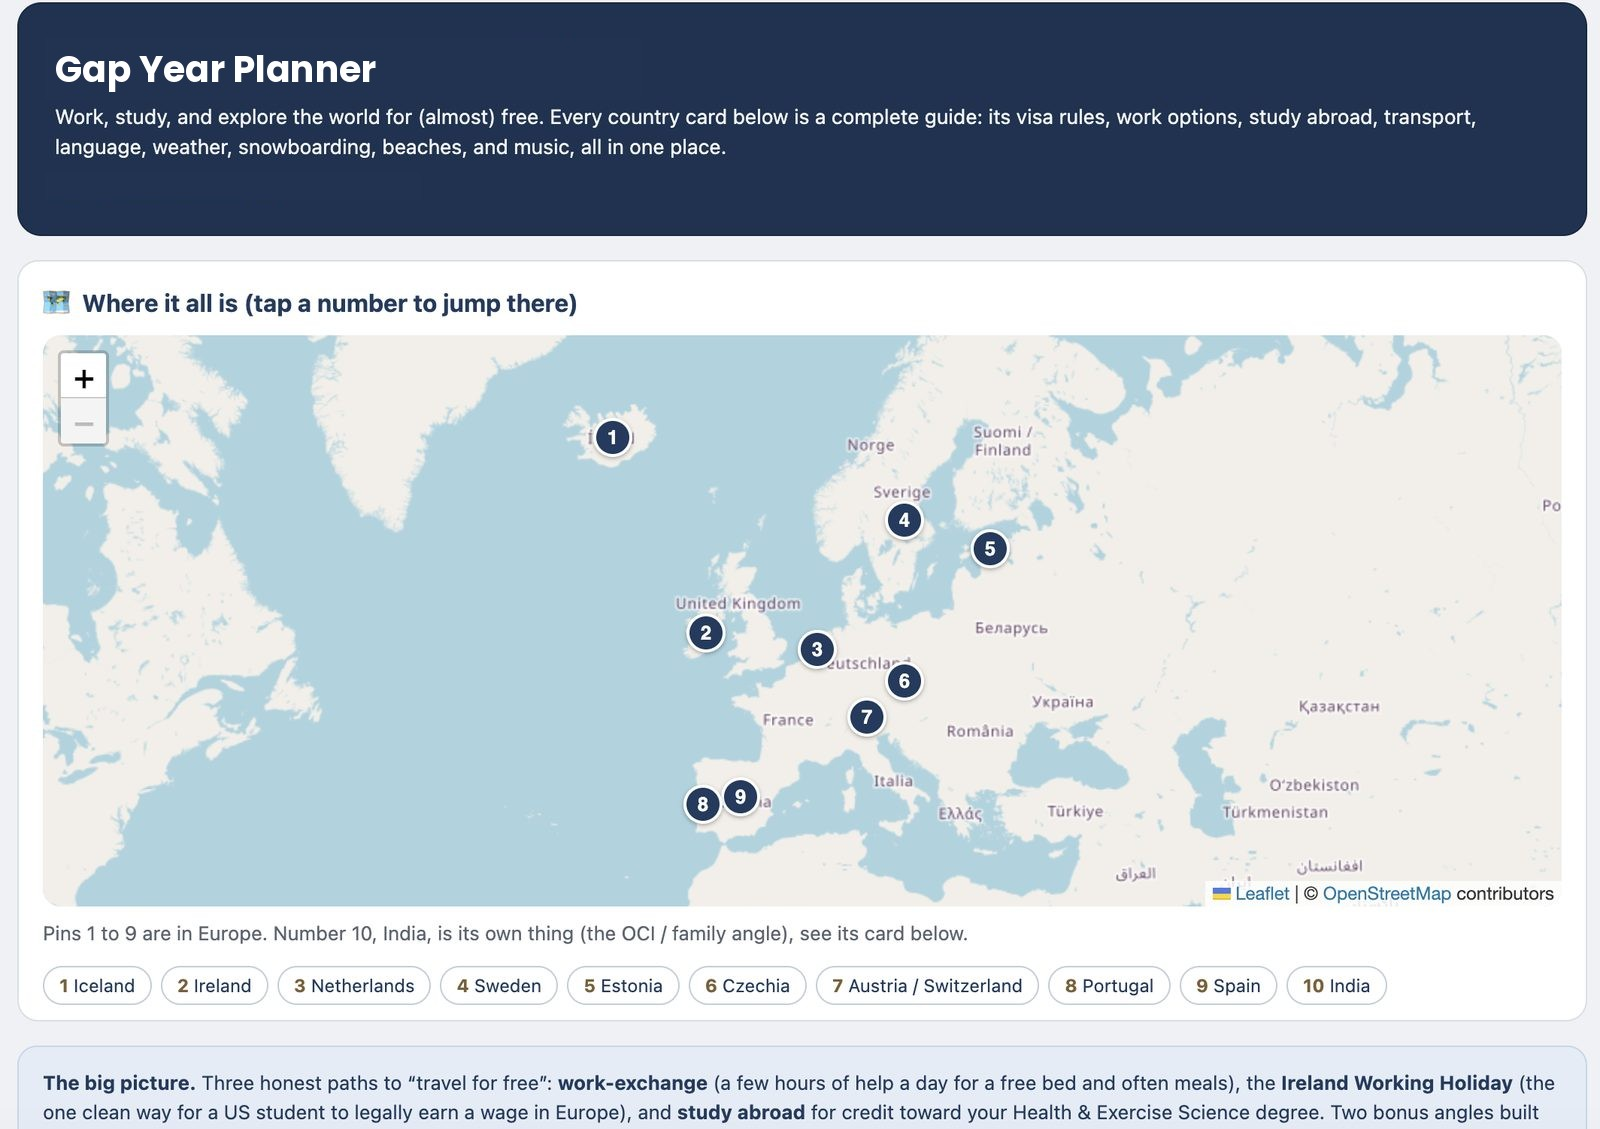
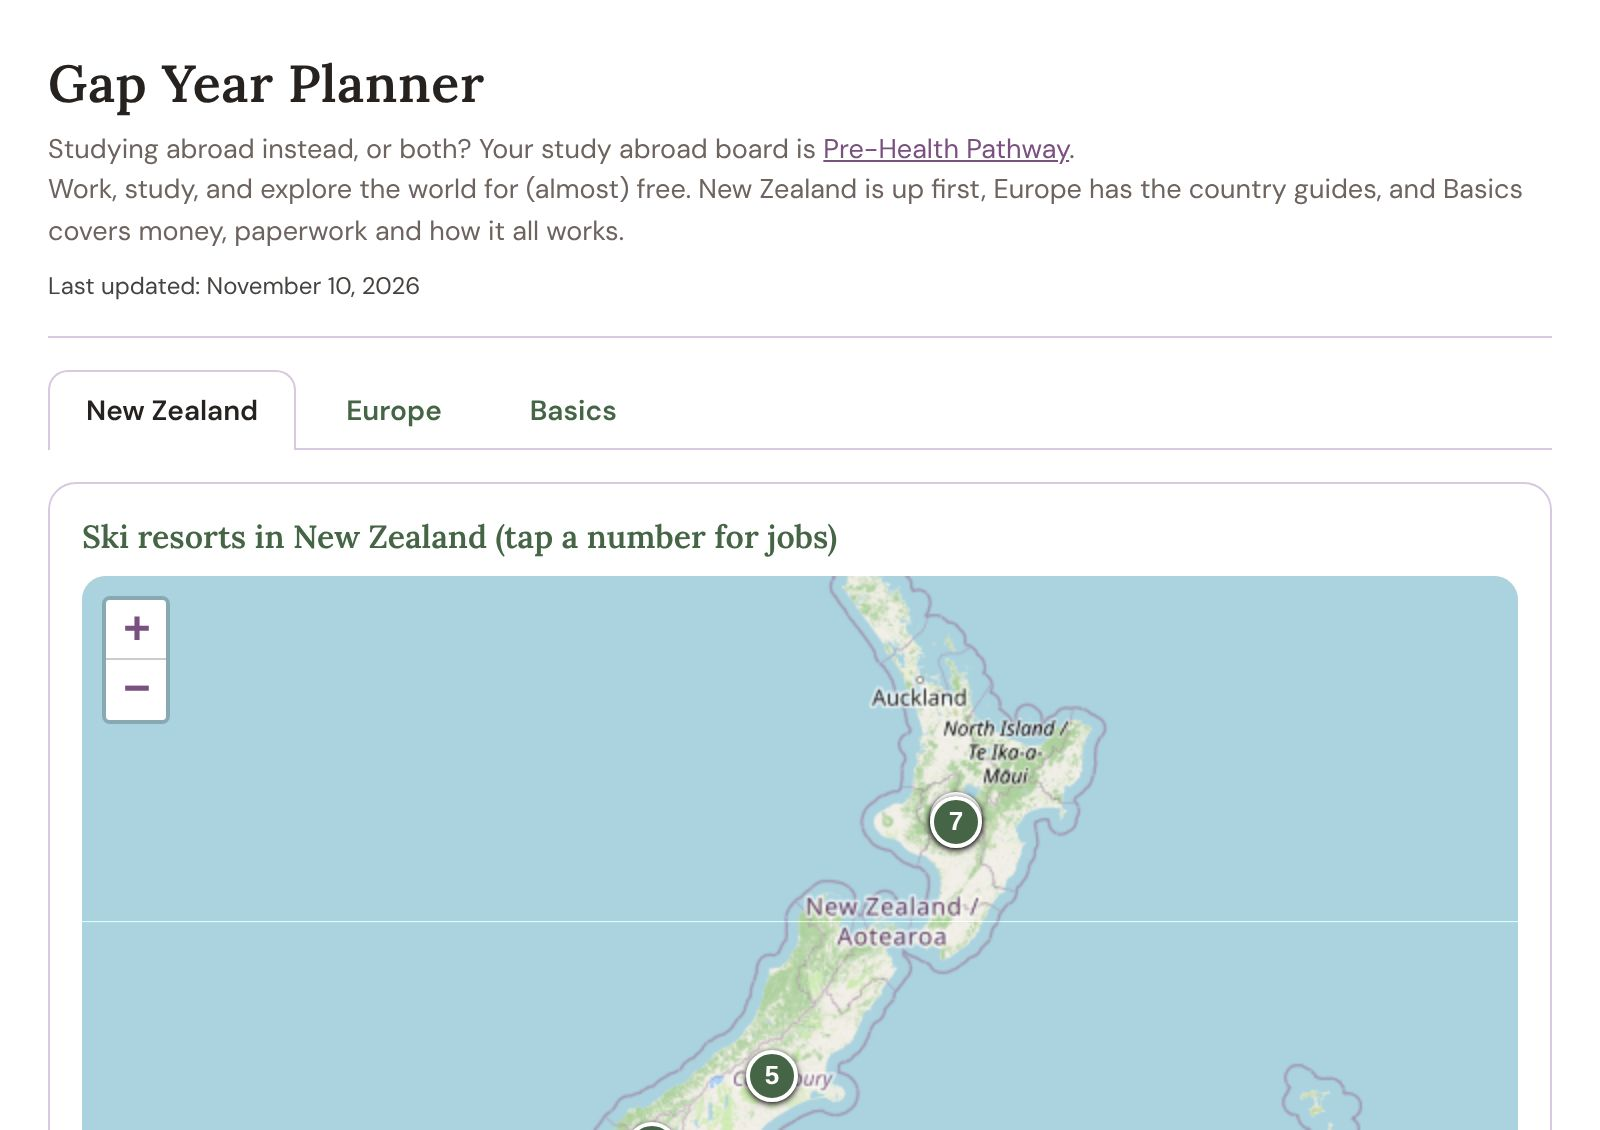
fixing the agents

diff --git a/gap-year/index.html b/gap-year/index.html
@@ -156,18 +156,18 @@ a:link,a:visited{color:#7a5080}
 
   <div class="hero">
     <h1>Gap Year Planner</h1>
-    <p class="sub">Studying abroad instead, or both? Your study abroad board is <a href="/pre-health/">Pre-Health Pathway</a>.</p>
-    <p>Work, study, and explore the world for (almost) free. Start with Basics, then open New Zealand or Europe for the details on each place.</p>
+    <p class="sub">Pre-health jobs, shadowing and scholarships at home are on <a href="/pre-health/">Pre-Health Pathway</a>.</p>
+    <p>Work, study, and explore the world for (almost) free. New Zealand is up first, Europe has the country guides, and Basics covers money, paperwork and how it all works.</p>
     <div class="upd">Last updated: November 10, 2026</div>
   </div>
 
   <div class="tabs" role="tablist" aria-label="Regions">
-    <button role="tab" id="tab-basics" aria-controls="panel-basics" aria-selected="true">Basics</button>
-    <button role="tab" id="tab-nz" aria-controls="panel-nz" aria-selected="false" tabindex="-1">New Zealand</button>
+    <button role="tab" id="tab-nz" aria-controls="panel-nz" aria-selected="true">New Zealand</button>
     <button role="tab" id="tab-eu" aria-controls="panel-eu" aria-selected="false" tabindex="-1">Europe</button>
+    <button role="tab" id="tab-basics" aria-controls="panel-basics" aria-selected="false" tabindex="-1">Basics</button>
   </div>
 
-  <div class="tabpanel" role="tabpanel" id="panel-basics" aria-labelledby="tab-basics">
+  <div class="tabpanel" role="tabpanel" id="panel-basics" aria-labelledby="tab-basics" hidden>
   <h2>How to live in another country</h2>
   <div class="callout c-blue">Three honest ways to live abroad on a small budget: a <b>working holiday visa</b> (a real job and a real wage, like New Zealand or Ireland), <b>work-exchange</b> (a few hours of help a day for a free bed and often meals), and <b>study abroad</b> for credit toward your degree. This tab covers what applies anywhere. The New Zealand and Europe tabs cover each place.</div>
 
@@ -254,7 +254,7 @@ a:link,a:visited{color:#7a5080}
 
   </div>
 
-  <div class="tabpanel" role="tabpanel" id="panel-nz" aria-labelledby="tab-nz" hidden>
+  <div class="tabpanel" role="tabpanel" id="panel-nz" aria-labelledby="tab-nz">
   <div class="mapcard">
     <h2>Ski resorts in New Zealand (tap a number for jobs)</h2>
     <div id="nzMap" role="img" aria-label="Map of New Zealand with numbered pins on the ski resorts"></div>
@@ -688,13 +688,13 @@ function initEuMap(){
   window._euMap=map;
 }
 (function(){
-  var tabs=[document.getElementById("tab-basics"),document.getElementById("tab-nz"),document.getElementById("tab-eu")];
-  var panels=[document.getElementById("panel-basics"),document.getElementById("panel-nz"),document.getElementById("panel-eu")];
+  var tabs=[document.getElementById("tab-nz"),document.getElementById("tab-eu"),document.getElementById("tab-basics")];
+  var panels=[document.getElementById("panel-nz"),document.getElementById("panel-eu"),document.getElementById("panel-basics")];
   function show(i,focus){
     tabs.forEach(function(t,j){t.setAttribute("aria-selected",j===i?"true":"false");t.tabIndex=j===i?0:-1;panels[j].hidden=j!==i;});
     if(focus)tabs[i].focus();
-    if(i===1){initNzMap();setTimeout(function(){if(window._nzMap){window._nzMap.invalidateSize();window._nzMap.fitBounds(window._nzPts,{padding:[40,40]});}},0);}
-    if(i===2){initEuMap();if(window._euMap)window._euMap.invalidateSize();}
+    if(i===0){initNzMap();setTimeout(function(){if(window._nzMap){window._nzMap.invalidateSize();window._nzMap.fitBounds(window._nzPts,{padding:[40,40]});}},0);}
+    if(i===1){initEuMap();if(window._euMap)window._euMap.invalidateSize();}
   }
   tabs.forEach(function(t,i){
     t.addEventListener("click",function(){show(i);});
@@ -707,7 +707,8 @@ function initEuMap(){
     if(!t)return;
     for(var k=0;k<panels.length;k++){if(panels[k].contains(t)&&panels[k].hidden){show(k);setTimeout(function(){t.scrollIntoView();},50);break;}}
   }
-  window.addEventListener("hashchange",checkHash);checkHash();
+  window.addEventListener("hashchange",checkHash);
+  if(location.hash)checkHash();else window.addEventListener("load",function(){show(0);});
 })();
 
 // New Zealand ski resort map

diff --git a/index.html b/index.html
@@ -58,7 +58,7 @@
     <a href="/wayfinder/overview.html" data-cat="agents"><span class="feat-thumb"><img src="/wayfinder/wayfinder_cover.jpg" alt=""></span><span class="feat-body"><span class="feat-t">Road-Trip Planner</span><span class="feat-s">Wayfinder</span><span class="feat-d">A 15-day road trip with my son, planned with AI in a few hours around three nights at Yosemite. Its campground finder got us beach sites at Lake Tahoe three days before departure.</span></span></a>
     <a href="/cultivate/overview.html" data-cat="agents"><span class="feat-thumb"><img src="/cultivate/cultivate_cover.jpg" alt=""></span><span class="feat-body"><span class="feat-t">Personal Learning Environment</span><span class="feat-s">Cultivate</span><span class="feat-d">A connectivist hub for professional development and a curated news feed. The first AI build here, and the experiment that started the rest.</span></span></a>
     <a href="/soar/overview.html" data-cat="agents"><span class="feat-thumb"><img src="/soar/soar_cover.jpg" alt=""></span><span class="feat-body"><span class="feat-t">First-Year Engineering Agent</span><span class="feat-s">Soar</span><span class="feat-d">A scheduled dashboard for a first-year engineering student: aerospace news and clubs, scholarships, internships, campus jobs and housing.</span></span></a>
-    <a href="/gap-year/overview.html" data-cat="agents"><span class="feat-thumb"><img src="/gap-year/gap-year_cover.jpg" alt=""></span><span class="feat-body"><span class="feat-t">Gap Year Planner Agent</span><span class="feat-s">Gap Year Planner</span><span class="feat-d">Country guides for living, working and studying abroad on a budget, with visa rules, seasonal resort jobs and a savings plan, kept current by a scheduled agent.</span></span></a>
+    <a href="/gap-year/overview.html" data-cat="agents"><span class="feat-thumb"><img src="/gap-year/gap-year_cover.jpg?v=20261113b" alt=""></span><span class="feat-body"><span class="feat-t">Gap Year Planner Agent</span><span class="feat-s">Gap Year Planner</span><span class="feat-d">Country guides for living, working and studying abroad on a budget, with visa rules, seasonal resort jobs and a savings plan, kept current by a scheduled agent.</span></span></a>
     <a href="/flow/overview.html" data-cat="agents"><span class="feat-thumb"><img src="/flow/flow_cover.jpg" alt=""></span><span class="feat-body"><span class="feat-t">Career Exploration Agent</span><span class="feat-s">Find Your Flow</span><span class="feat-d">One realistic career at a time, with verified pay, an affordable Colorado path and one real open job. Built to take the overwhelm out of choosing.</span></span></a>
     <a href="/pre-health/overview.html" data-cat="agents"><span class="feat-thumb"><img src="/pre-health/pre-health_cover.jpg?v=20261113b" alt=""></span><span class="feat-body"><span class="feat-t">Pre-Health Pathway Agent</span><span class="feat-s">Pre-Health Pathway</span><span class="feat-d">A scheduled board of deadlines, paid patient care, shadowing, scholarships and study abroad, so the next step on a long path is always clear.</span></span></a>
     <a href="/focus/overview.html" data-cat="agents"><span class="feat-thumb"><img src="/focus/focus_cover.jpg" alt=""></span><span class="feat-body"><span class="feat-t">Local Job Board Agent</span><span class="feat-s">Focus</span><span class="feat-d">A scheduled board of real, open jobs near home for a working photographer, each verified on the employer&rsquo;s own site and held to a firm pay floor.</span></span></a>

diff --git a/assets/tool.css b/assets/tool.css
@@ -5,3 +5,12 @@
 .hero:has(> .hero-inner),.refresh-bar{max-width:1000px!important;margin-left:auto!important;margin-right:auto!important;box-sizing:border-box}
 img,video,iframe,table{max-width:100%}
 @media(max-width:520px){.wrap,.container,.hero-inner{padding-left:1rem!important;padding-right:1rem!important}}
+
+/* Tool hero banners: ONE treatment on every tool (13 Nov 2026).
+   Contained to the content width (not edge to edge), rounded, same top spacing. */
+.ph-hero,.hero:has(> .hero-shade),.hero:has(> .hero-inner),.refresh-bar{width:calc(100% - 3rem)!important;max-width:calc(1000px - 3rem)!important;margin-left:auto!important;margin-right:auto!important;box-sizing:border-box}
+.ph-hero,.hero:has(> .hero-shade),.hero:has(> .hero-inner){margin-top:20px!important;border-radius:12px;overflow:hidden}
+.refresh-bar{margin-top:16px!important;border-radius:8px}
+@media(max-width:520px){.ph-hero,.hero:has(> .hero-shade),.hero:has(> .hero-inner),.refresh-bar{width:calc(100% - 2rem)!important}}
+/* Focus puts its hero inside a padded <main>: span the content width there instead of insetting twice */
+main > .hero:has(> .hero-inner){width:100%!important}

diff --git a/job-agents/overview.html b/job-agents/overview.html
@@ -53,7 +53,7 @@
     <a href="/focus/overview.html"><figure><img src="/focus/focus_cover.jpg" alt="Focus page" loading="lazy"><figcaption>Focus</figcaption></figure></a>
     <a href="/soar/overview.html"><figure><img src="/soar/soar_cover.jpg" alt="Soar page" loading="lazy"><figcaption>Soar</figcaption></figure></a>
     <a href="/pre-health/overview.html"><figure><img src="/pre-health/pre-health_cover.jpg?v=20261113b" alt="Pre-Health Pathway page" loading="lazy"><figcaption>Pre-Health Pathway</figcaption></figure></a>
-    <a href="/gap-year/overview.html"><figure><img src="/gap-year/gap-year_cover.jpg" alt="Gap Year Planner page" loading="lazy"><figcaption>Gap Year Planner</figcaption></figure></a>
+    <a href="/gap-year/overview.html"><figure><img src="/gap-year/gap-year_cover.jpg?v=20261113b" alt="Gap Year Planner page" loading="lazy"><figcaption>Gap Year Planner</figcaption></figure></a>
   </div>
   <div class="prose">
   <h2>Process</h2>

diff --git a/pre-health/index.html b/pre-health/index.html
@@ -130,7 +130,7 @@ a:link,a:visited{color:#7a5080}
 :root{--teal:#1f4d4a;--teal2:#2a6f68;--tealpale:#eef5f4;--tealline:#cfe1de;--gold-text:#75592c;--rose-text:#94395a}
 body{background:#f6f8f8}
 .refresh-top{background:var(--teal);color:#fff;text-align:center;font-size:.78rem;letter-spacing:.05em;text-transform:uppercase;padding:8px 16px;font-weight:600}
-.ph-hero{position:relative;min-height:440px;background:#1f4d4a url("/pre-health/hero.jpg") center 35%/cover no-repeat;display:flex;align-items:flex-end}
+.ph-hero{position:relative;min-height:440px;background:#1f4d4a url("/pre-health/hero.jpg?v=20261113b") center 35%/cover no-repeat;display:flex;align-items:flex-end}
 .ph-hero .shade{width:100%;background:rgba(15,38,36,.72);padding:28px 0 26px}
 .ph-hero .inner{max-width:1000px;margin:0 auto;padding:0 1.5rem;box-sizing:border-box}
 .ph-hero h1{color:#fff!important;font-family:'Lora',Georgia,serif;font-size:2.6rem;line-height:1.1;margin:0 0 8px}

diff --git a/gap-year/overview.html b/gap-year/overview.html
@@ -32,7 +32,7 @@
 
   <p class="lead-sub">A scheduled agent that keeps one university student&rsquo;s plan for living, working and studying abroad current: country guides, seasonal jobs, visas and the savings it takes.</p>
 
-  <div class="hero-media"><img src="/gap-year/gap-year_cover.jpg" alt="The Gap Year Planner: a map of Europe with numbered home-base countries"></div>
+  <div class="hero-media"><img src="/gap-year/gap-year_cover.jpg?v=20261113b" alt="The Gap Year Planner opening on New Zealand, with a map of the ski resorts"></div>
 
   <div class="prose">
     <h2>Goal</h2>
